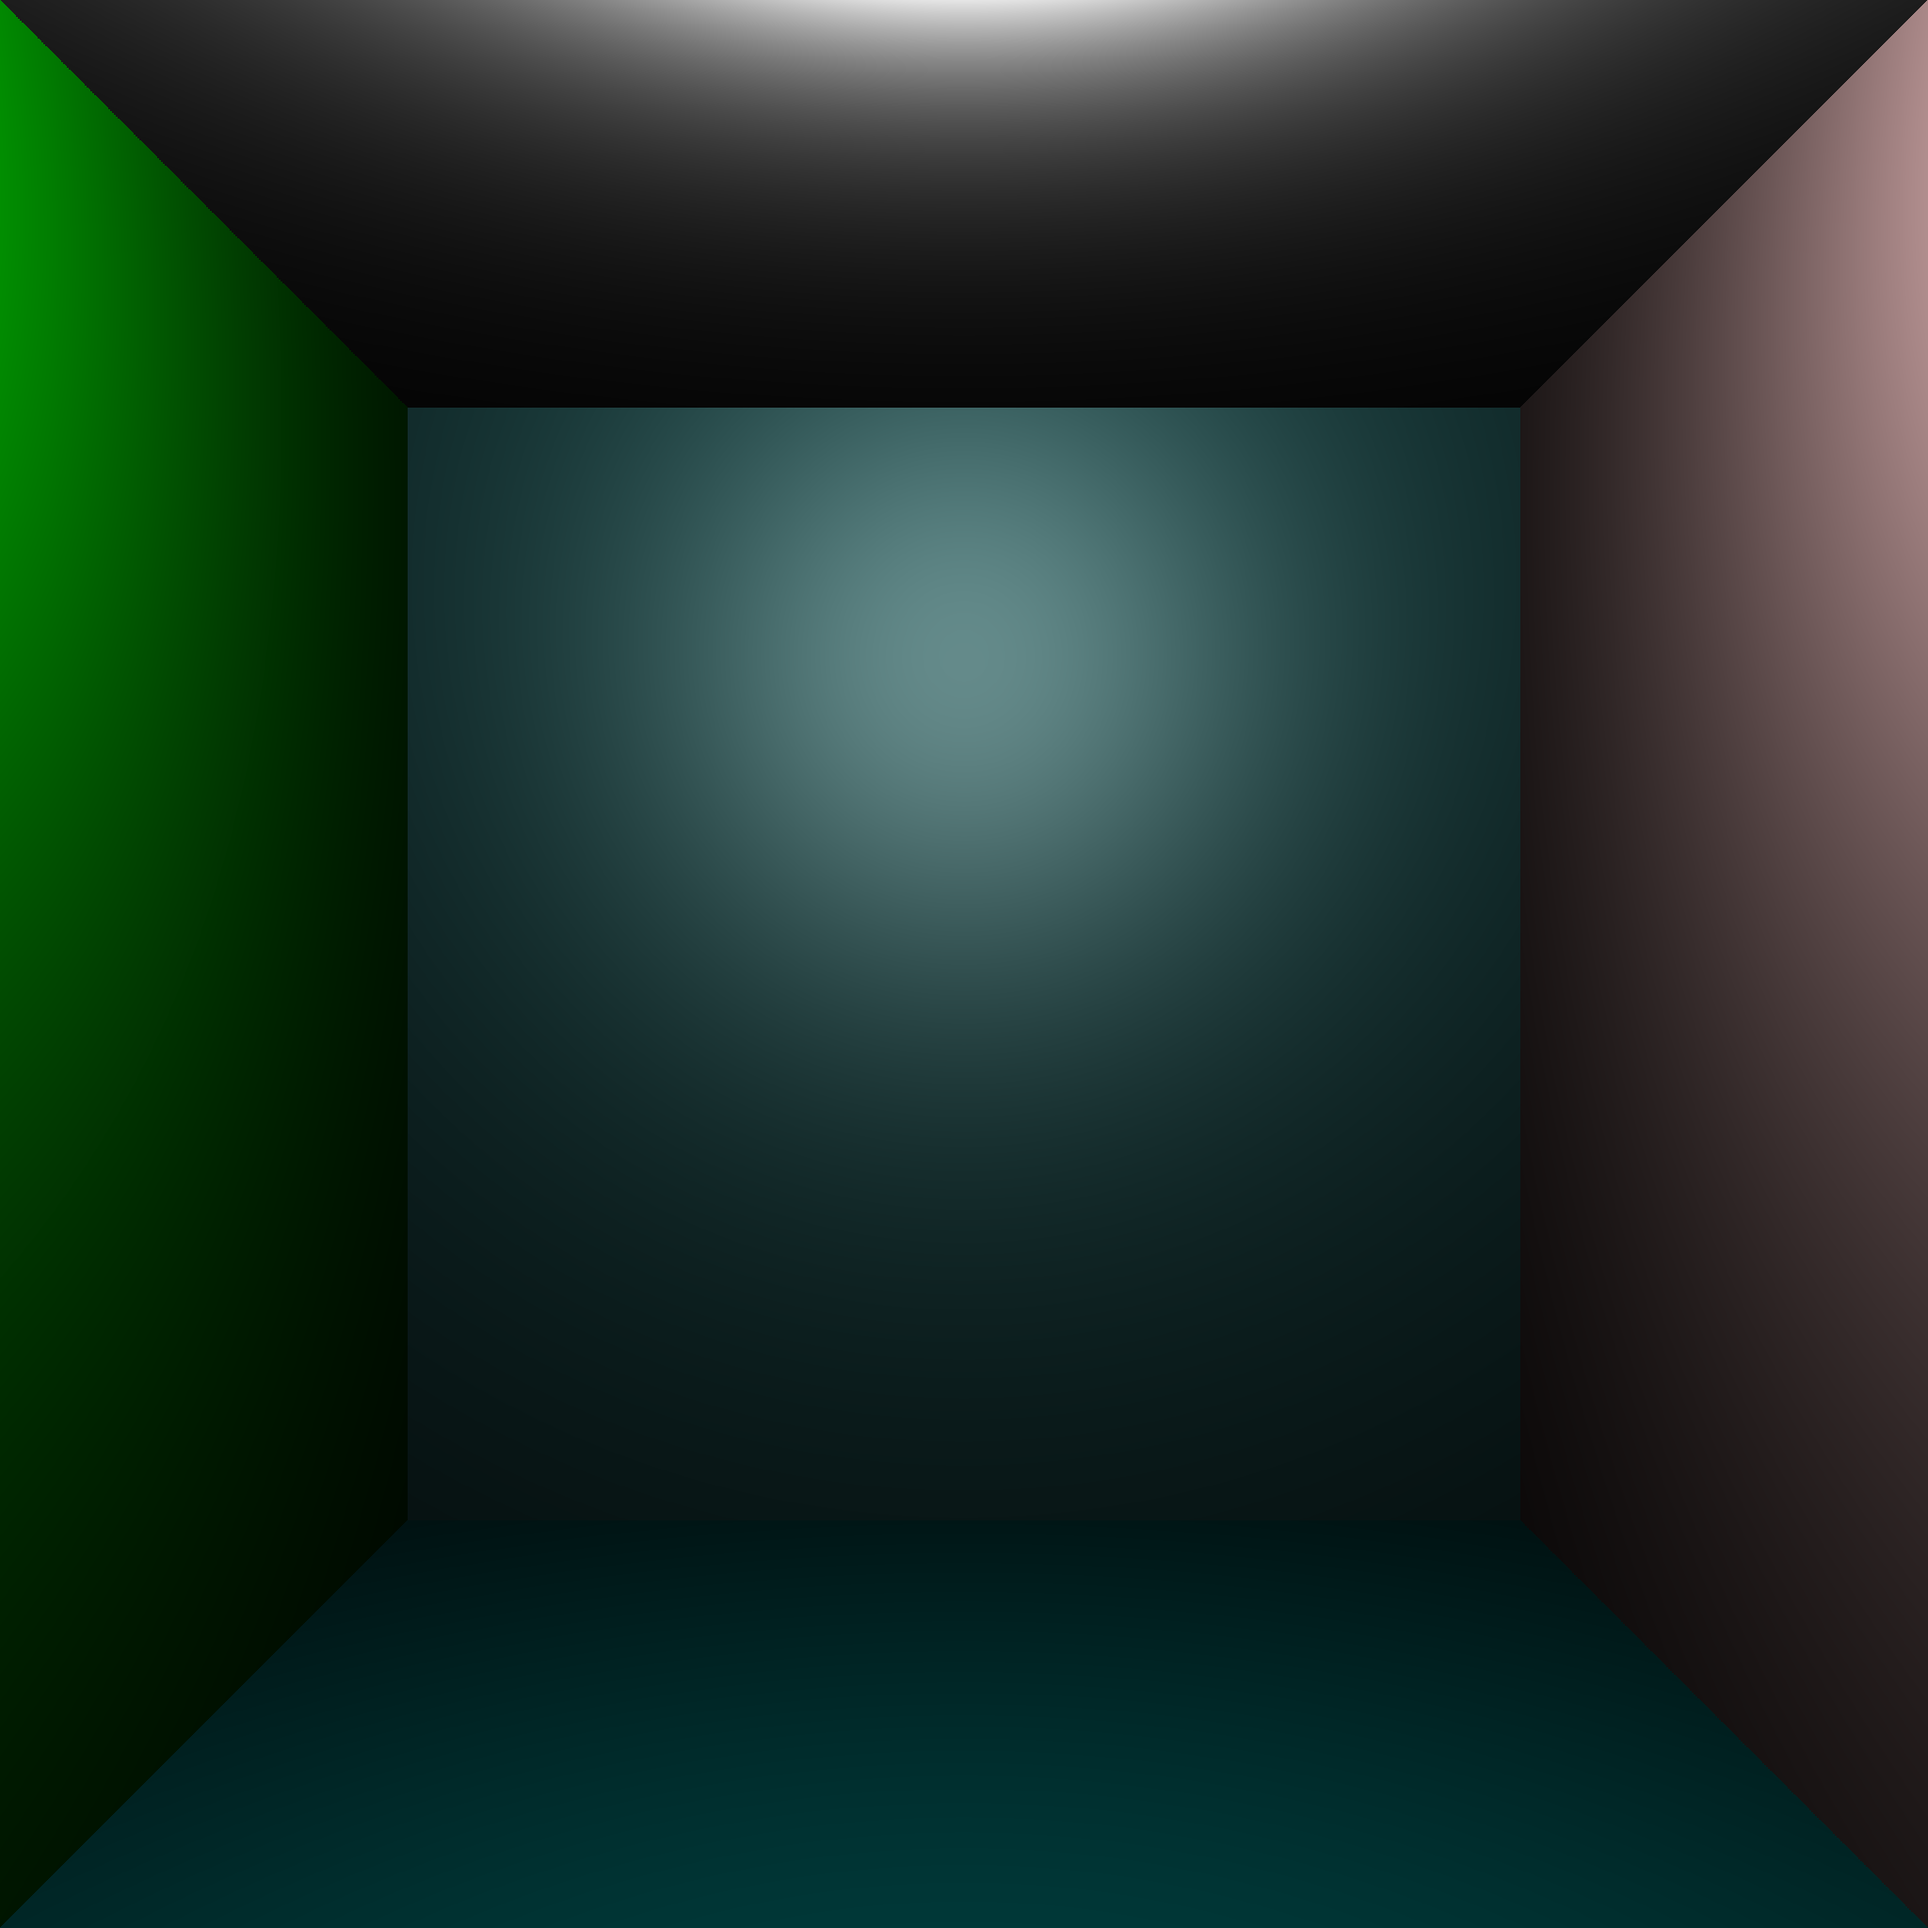
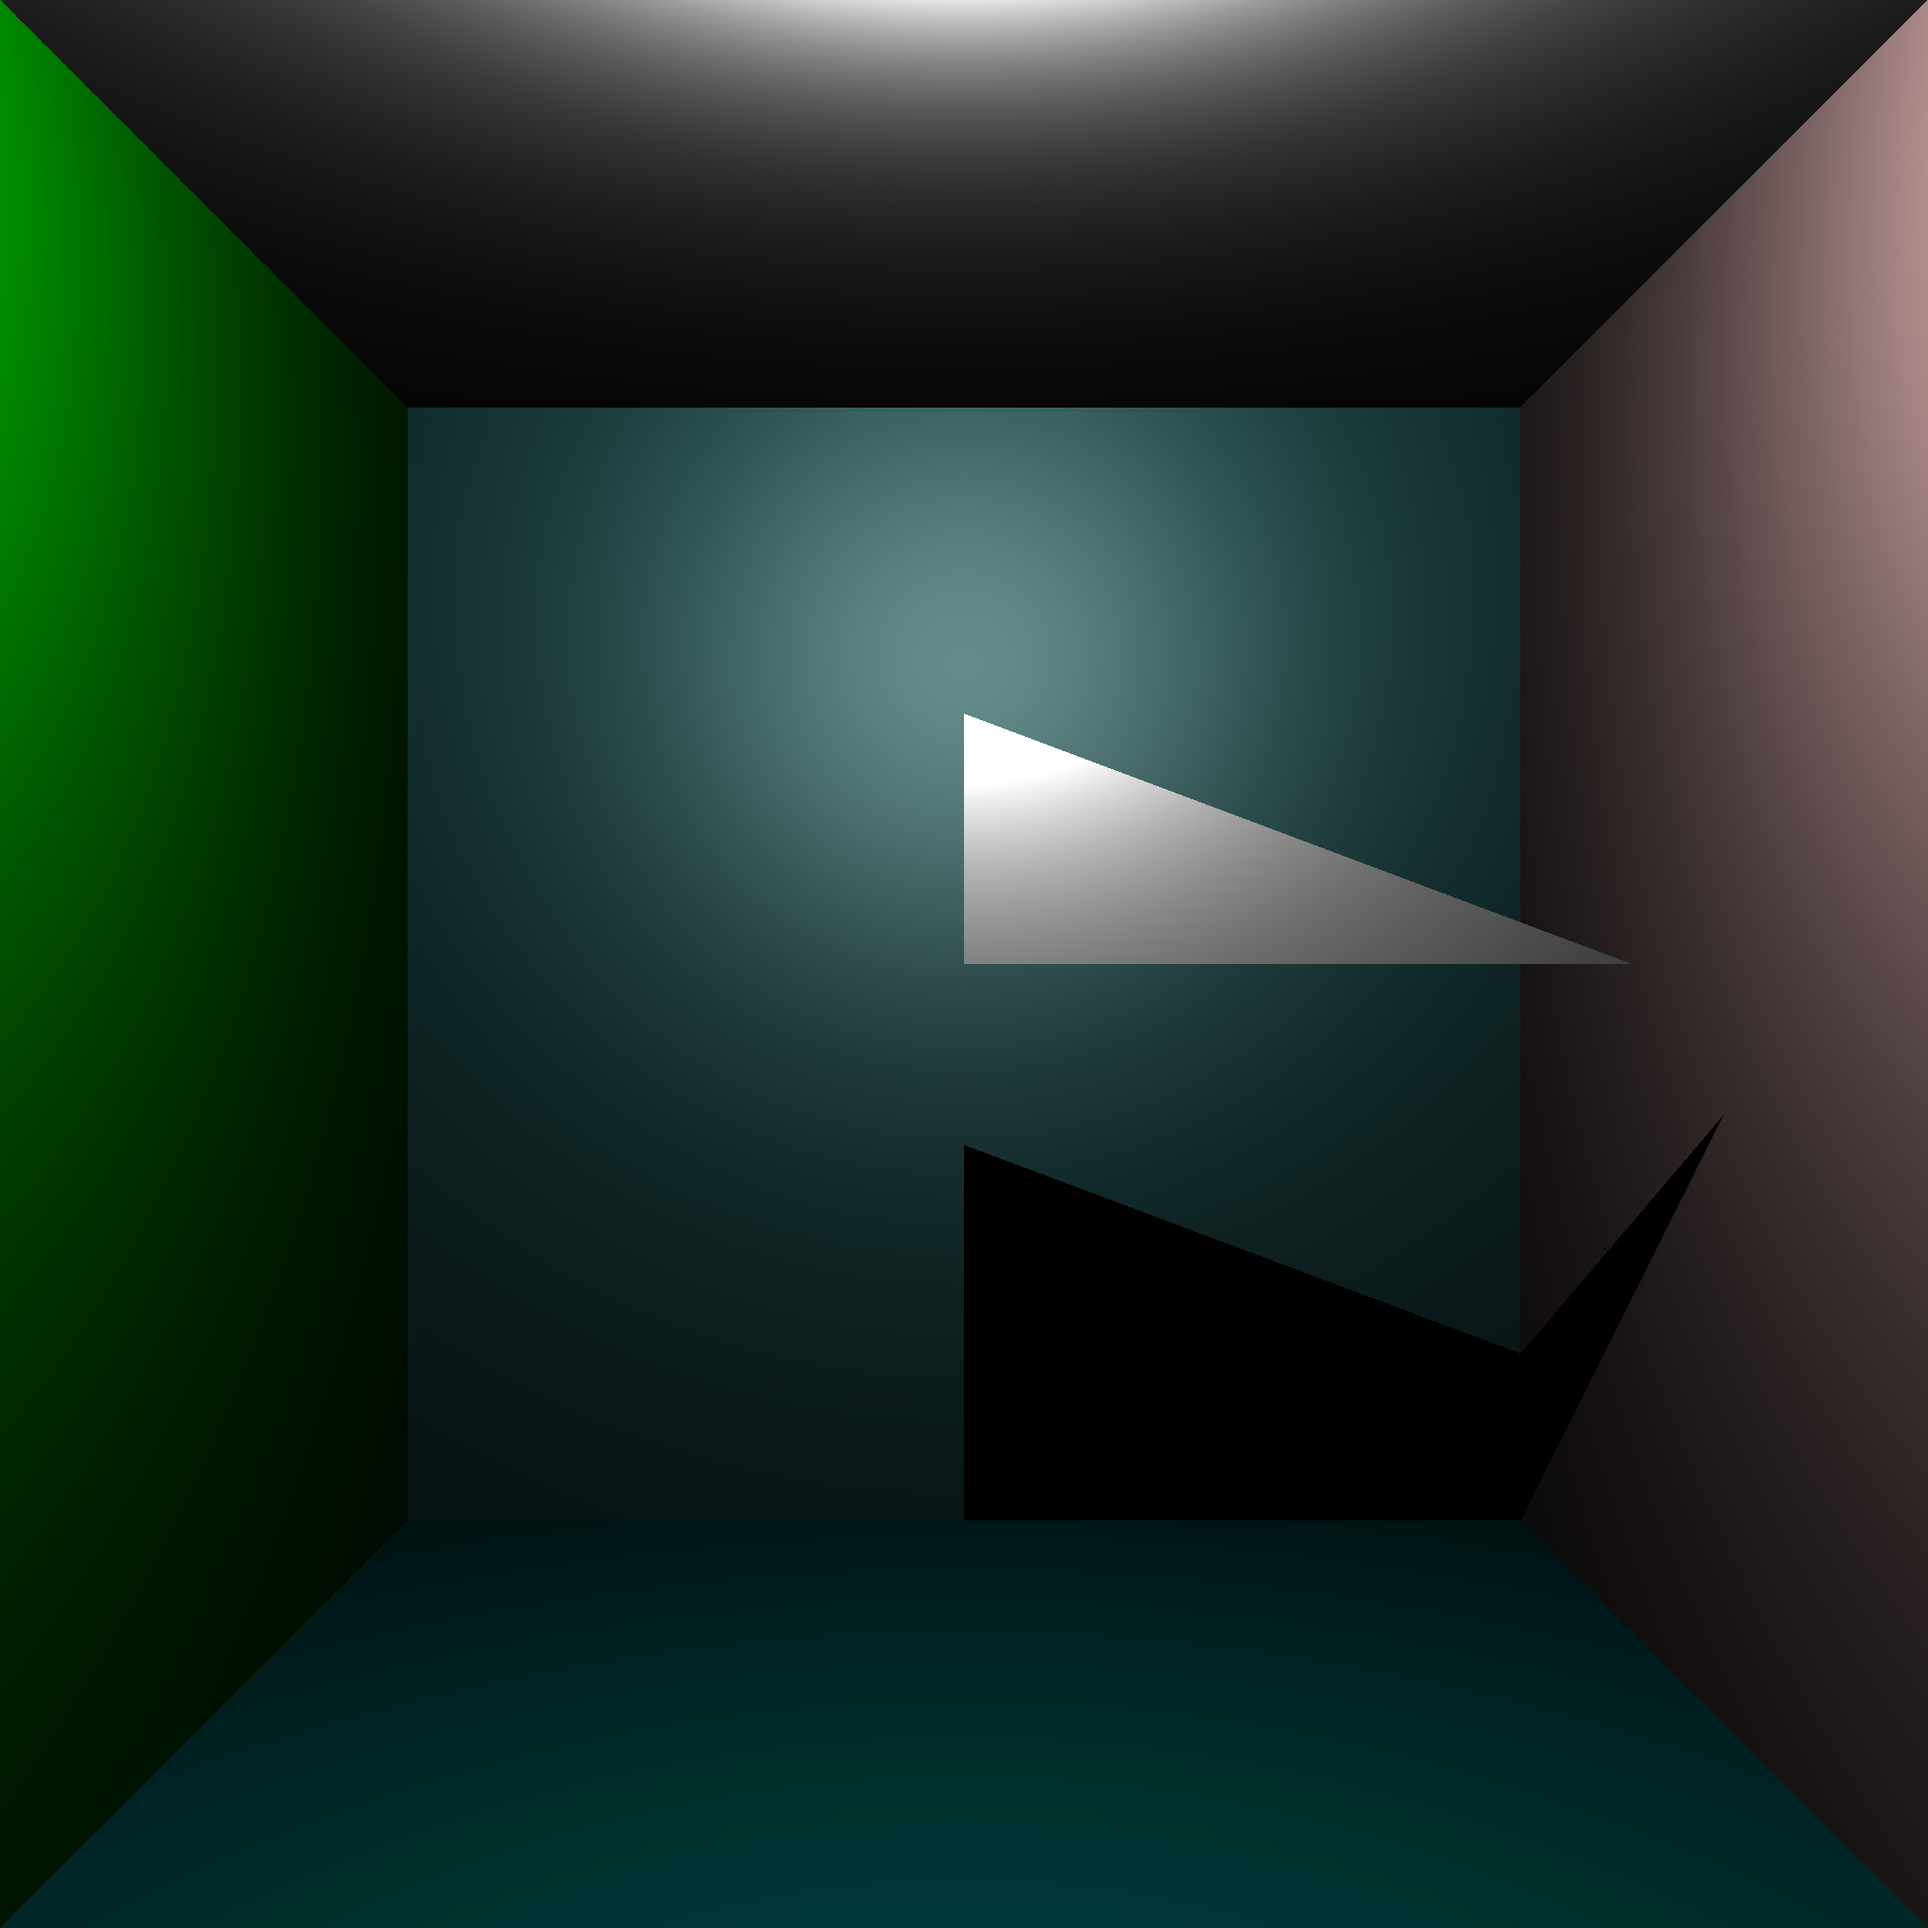
-*-ray-*- mesh boundingbox

Changed region(s): [[0.5, 0.5938, 0.75, 0.7812], [0.5, 0.375, 0.8438, 0.5], [0.8125, 0.5938, 0.9062, 0.6875]]

diff --git a/ray tracer/src/rt/Mesh.java b/ray tracer/src/rt/Mesh.java
@@ -16,6 +16,7 @@ public class Mesh extends Aggregate implements Intersectable {
 	ArrayList<Triangle> triangles;
 	String name;
 	private Material material;
+	Boundingbox box;
 	
 
 	public Mesh() {
@@ -53,10 +54,16 @@ public class Mesh extends Aggregate implements Intersectable {
 				triangles.add(new Triangle(p1, p2, p3));
 		}
 
+		ArrayList<Boundingbox> bb = new ArrayList<Boundingbox>();
+		for (Triangle t : triangles)
+			bb.add(t.getBox());
+		box = Boundingbox.combineBox(bb);
 	}
 
 	@Override
 	public HitRecord intersect(Ray ray) {
+		if (!intersectsBoundingbox(ray))
+			return null;
 		HitRecord tempHit = null;
 		HitRecord hit = null;
 		Iterator<Triangle> it = triangles.iterator();
@@ -79,10 +86,38 @@ public class Mesh extends Aggregate implements Intersectable {
 
 	@Override
 	public Boundingbox getBox() {
-		ArrayList<Boundingbox> bb = new ArrayList<Boundingbox>();
-		for (Triangle t : triangles)
-			bb.add(t.getBox());
-		return Boundingbox.combineBox(bb);
+		return box;
+	}
+
+	private boolean intersectsBoundingbox(Ray ray) {
+		float txmin, txmax, tymin, tymax;
+		float d_x = ray.getDirection().x;
+		float d_y = ray.getDirection().y;
+		float e_x = ray.getOrigin().x;
+		float e_y = ray.getOrigin().y;
+		float x_min = getBox().bottomFrontLeft.x;
+		float x_max = getBox().topBackRight.x;
+		float y_min = getBox().bottomFrontLeft.y;
+		float y_max = getBox().topBackRight.y;
+		if (d_x >= 0) {
+			txmin = (x_min - e_x) / d_x;
+			txmax = (x_max - e_x) / d_x;
+		} else {
+			txmin = (x_max - e_x) / d_x;
+			txmax = (x_min - e_x) / d_x;
+		}
+		if (d_y >= 0) {
+			tymin = (y_min - e_y) / d_y;
+			tymax = (y_max - e_y) / d_y;
+		} else {
+			tymin = (y_max - e_y) / d_y;
+			tymax = (y_min - e_y) / d_y;
+		}
+		if ((txmin > tymax) || (tymin > txmax)) {
+			return false;
+		} else {
+			return true;
+		}
 	}
 
 	public ArrayList<Triangle> getTriangles() {

diff --git a/ray tracer/src/rt/Sphere.java b/ray tracer/src/rt/Sphere.java
@@ -17,8 +17,10 @@ public class Sphere implements Intersectable {
 
 	@Override
 	public HitRecord intersect(Ray ray) {
+
 		if (!intersectsBoundingbox(ray))
 			return null;
+
 		// Compute A, B and C coefficients
 		float a = ray.getDirection().dot(ray.getDirection());
 		Vector3f origin = new Vector3f(ray.getOrigin());

diff --git a/ray tracer/src/rt/Main.java b/ray tracer/src/rt/Main.java
@@ -10,7 +10,7 @@ import scenes.Scene;
 
 public class Main {
 
-	private static int sceneNo = 6;
+	private static int sceneNo = 3;
 	private static int maxThreads = Runtime.getRuntime().availableProcessors();
 	private static Scene image;
 
